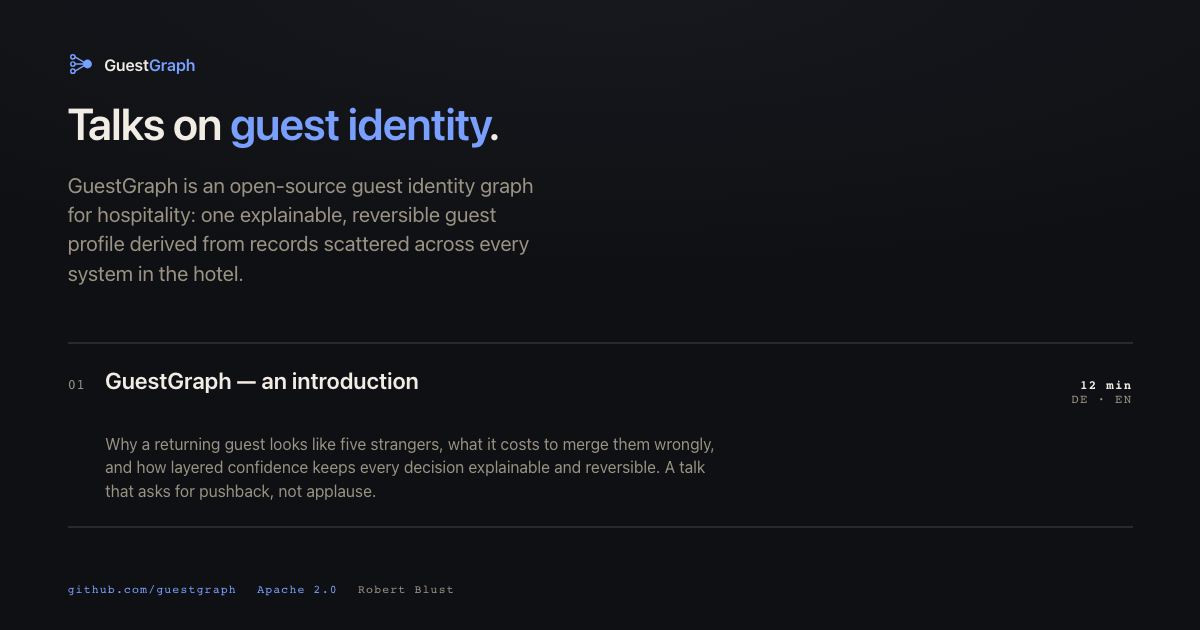
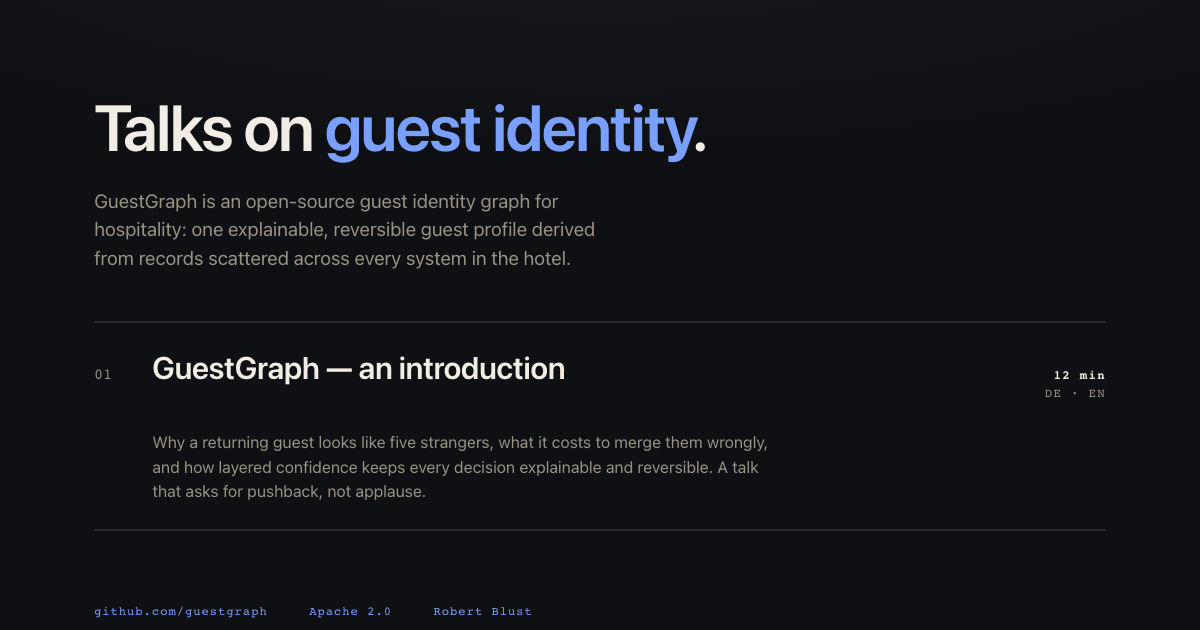
Give the talks index guestgraph.io's header and footer
The domain is served by two repositories, and until now it looked it: the
landing page was a centred column with a header bar and a footer, this index
was full-bleed with a floating language toggle and a row of links. Crossing
between them meant meeting a seam that said nothing.

The index now uses guestgraph.io's shell, header and footer verbatim, with the
nav marking itself as the current page. There is no shared stylesheet and there
cannot be one — a deck has to open from file:// — so this is a copy, and
CLAUDE.md now says that changing the chrome means changing both repositories.

The language control moves into the bar, where the brand used to collide with
it, and the `L Sprache` hint goes. That hint is a presenter's affordance; this
is a page that is clicked, and a visible DE/EN control says it better. The key
still works, it is just no longer advertised. On a phone the bar wraps to two
rows rather than breaking „DE · EN" across lines.

The deck link opens a new tab and links to this index do not, matching the rule
settled on blust.ch: it follows what the destination is, not the domain.

diff --git a/index.html b/index.html
@@ -26,6 +26,10 @@
 <meta property="og:locale:alternate" content="de_CH">
 <meta name="twitter:card" content="summary_large_image">
 <style>
+  /* Shell, header, brand, nav and footer are guestgraph.io's, deliberately: the domain is
+     served by two repositories and a visitor crossing between them should not meet a seam.
+     What only exists here is the talk list — and the language control, because this is the
+     only bilingual page on the domain. */
   :root{
     --paper:#0f1013; --ink:#f1ede4; --muted:#9a9384; --cobalt:#7aa0ff;
     --line:#282a30; --paper2:#191b20;
@@ -33,95 +37,130 @@
   *{box-sizing:border-box; margin:0; padding:0}
   body{
     font-family:"IBM Plex Sans", ui-sans-serif, system-ui, -apple-system, "Segoe UI", Roboto, sans-serif;
-    background:var(--paper); color:var(--ink); min-height:100vh;
-    background-image:radial-gradient(130% 70% at 50% 0%, #17191f 0%, var(--paper) 62%);
+    background:var(--paper); color:var(--ink); line-height:1.5; min-height:100vh;
+    background-image:radial-gradient(120% 60% at 50% -10%, #17191f 0%, var(--paper) 60%);
     -webkit-font-smoothing:antialiased;
+    display:flex; flex-direction:column;
   }
+  a{color:inherit}
   .mono{font-family:"IBM Plex Mono", ui-monospace, "SF Mono", Menlo, monospace}
-  /* same rhythm as the deck: full-bleed, vmin padding — not a centred column */
-  .wrap{padding:11vmin 10vmin 9vmin}
 
-  /* the same lockup the landing page opens with, and a way back to it */
-  .brand{display:inline-flex; align-items:center; gap:.65em; text-decoration:none;
-         margin-bottom:3.4vmin; color:var(--cobalt)}
-  .brand svg{width:clamp(26px,3.4vmin,38px); height:clamp(26px,3.4vmin,38px); flex:0 0 auto}
-  .brand b{font-weight:600; letter-spacing:-.01em; color:var(--ink);
-           font-size:clamp(1.02rem,2.1vmin,1.5rem)}
+  .shell{width:100%; max-width:1180px; margin:0 auto; padding:0 7vw}
+
+  header{padding:2rem 0}
+  .bar{display:flex; align-items:center; justify-content:space-between; gap:2rem}
+  .brand{display:flex; align-items:center; gap:.7rem; text-decoration:none}
+  .brand svg{width:28px; height:28px; color:var(--cobalt); flex:0 0 auto}
+  .brand b{font-weight:600; font-size:1.06rem; letter-spacing:-.01em}
   .brand b span{color:var(--cobalt)}
-  .brand:hover b, .brand:focus-visible b{color:var(--cobalt)}
+  nav{display:flex; align-items:center; gap:1.9rem; font-family:"IBM Plex Mono",monospace;
+      font-size:.8rem; letter-spacing:.1em; text-transform:uppercase}
+  nav a{color:var(--muted); text-decoration:none; padding-bottom:.2rem; border-bottom:1px solid transparent}
+  nav a:hover, nav a:focus-visible{color:var(--ink); border-color:var(--cobalt)}
+  /* the bar is the same component on both sites, so this page says which one you are on
+     rather than dropping the item and leaving the header subtly different */
+  nav a[aria-current="page"]{color:var(--ink); border-color:var(--cobalt)}
 
-  h1{font-weight:600; line-height:1.07; letter-spacing:-.02em; font-size:clamp(2.3rem,6.6vmin,5.6rem); max-width:21ch}
+  /* The language control lives in the bar rather than floating over the page. The deck
+     keeps its fixed DE/EN indicator because a deck is presented; this is a page that is
+     clicked, and a visible control in the header explains itself without a key hint. */
+  .langind{font:inherit; letter-spacing:inherit; text-transform:inherit; background:none;
+           border:0; border-bottom:1px solid transparent; padding:0 0 .2rem; cursor:pointer;
+           color:var(--muted); white-space:nowrap}
+  .langind:hover{color:var(--ink)}
+  .langind .on{color:var(--cobalt); font-weight:700}
+
+  /* vertically centred, as on guestgraph.io: with a short list the alternative is a
+     column of content sitting above a screen-height void */
+  main{flex:1; display:flex; align-items:center; padding:2vh 0 5vh}
+
+  h1{font-weight:600; line-height:1.07; letter-spacing:-.025em;
+     font-size:clamp(2.2rem,5.4vw,4.2rem); max-width:21ch}
   h1 em{font-style:normal; color:var(--cobalt)}
-  .lede{margin-top:3.4vmin; font-size:clamp(1.25rem,3.1vmin,2.5rem); color:var(--muted); max-width:36ch; line-height:1.4}
+  .lede{margin-top:1.6rem; font-size:clamp(1.05rem,1.6vw,1.35rem); color:var(--muted);
+        max-width:44ch}
 
-  .talks{margin-top:8vmin}
+  .talks{margin-top:clamp(3rem,6vh,5rem)}
   .talk{
-    display:grid; grid-template-columns:auto 1fr auto; gap:1.2rem 3vmin; align-items:baseline;
-    border-top:2px solid var(--line); padding:3.4vmin 0;
+    display:grid; grid-template-columns:auto 1fr auto; gap:1rem 2.5rem; align-items:baseline;
+    border-top:2px solid var(--line); padding:clamp(1.6rem,3vh,2.4rem) 0;
     text-decoration:none; color:inherit; transition:border-color .2s ease;
   }
   .talk:last-child{border-bottom:2px solid var(--line)}
-  .talk:hover{border-color:var(--cobalt)}
-  .talk:hover .t{color:var(--cobalt)}
-  .num{font-family:"IBM Plex Mono",monospace; color:var(--muted); font-size:clamp(.9rem,1.7vmin,1.25rem)}
-  .t{font-size:clamp(1.4rem,3.4vmin,2.4rem); font-weight:600; line-height:1.2; transition:color .2s ease}
-  .d{grid-column:2; margin-top:1.2vmin; color:var(--muted); font-size:clamp(1rem,2.1vmin,1.45rem); line-height:1.45; max-width:62ch}
+  .talk:hover, .talk:focus-visible{border-color:var(--cobalt)}
+  .talk:hover .t, .talk:focus-visible .t{color:var(--cobalt)}
+  .num{font-family:"IBM Plex Mono",monospace; color:var(--muted); font-size:.95rem}
+  .t{font-size:clamp(1.3rem,2.6vw,2rem); font-weight:600; line-height:1.2;
+     letter-spacing:-.015em; transition:color .2s ease}
+  .d{grid-column:2; margin-top:.7rem; color:var(--muted);
+     font-size:clamp(1rem,1.35vw,1.15rem); line-height:1.5; max-width:62ch}
   .meta{
-    font-family:"IBM Plex Mono",monospace; font-size:clamp(.78rem,1.5vmin,1.05rem);
+    font-family:"IBM Plex Mono",monospace; font-size:.78rem;
     color:var(--muted); letter-spacing:.1em; white-space:nowrap; text-align:right;
   }
   .meta b{color:var(--ink); font-weight:600}
 
-  .foot{margin-top:8vmin; display:flex; flex-wrap:wrap; gap:.9rem 3vmin;
-        font-family:"IBM Plex Mono",monospace; font-size:clamp(.72rem,1.4vmin,.95rem);
-        letter-spacing:.1em; color:var(--muted)}
-  .foot a{color:var(--cobalt); text-decoration:none}
-  .foot a:hover{text-decoration:underline}
+  footer{padding:0 0 2rem; display:flex; flex-wrap:wrap; gap:.9rem 2.6rem; align-items:center;
+         font-family:"IBM Plex Mono",monospace; font-size:.76rem; letter-spacing:.08em; color:var(--muted)}
+  footer a{color:var(--cobalt); text-decoration:none}
+  footer a:hover, footer a:focus-visible{text-decoration:underline}
 
-  /* chrome positioned exactly as in the deck */
-  .langind{position:fixed; top:3vmin; left:4vmin; font-family:"IBM Plex Mono",monospace;
-           font-size:.7rem; letter-spacing:.15em; color:var(--muted); z-index:5; cursor:pointer;
-           user-select:none}
-  .langind .on{color:var(--cobalt); font-weight:700}
-  .hint{position:fixed; top:3vmin; right:4vmin; font-family:"IBM Plex Mono",monospace;
-        font-size:.68rem; color:var(--muted); letter-spacing:.1em; z-index:5; opacity:.7}
+  :focus-visible{outline:2px solid var(--cobalt); outline-offset:3px; border-radius:3px}
 
-  @media (max-width:860px), (max-aspect-ratio:4/5){
-    .wrap{padding:16vmin 7vw 10vh}
-    h1{font-size:clamp(1.7rem,7.5vw,3rem); max-width:100%}
-    .lede{font-size:clamp(1rem,4.4vw,1.5rem); max-width:100%}
+  @media (max-width:900px){
+    .lede{max-width:100%}
+    nav{gap:1.4rem}
+    /* three nav items and a wordmark do not fit a phone on one line. Letting the bar wrap
+       keeps all four legible; squeezing them instead broke „DE · EN" across two lines. */
+    .bar{flex-wrap:wrap; gap:1.1rem 1.4rem}
+    main{padding:1vh 0 4vh}
     .talk{grid-template-columns:auto 1fr; gap:.6rem 1.2rem}
     .meta{grid-column:2; text-align:left; margin-top:.6rem}
     .d{grid-column:2; max-width:100%}
-    .hint{display:none}
+  }
+  @media (prefers-reduced-motion:reduce){
+    .talk, .t, nav a{transition:none}
   }
 </style>
 </head>
 <body>
 
-<div class="langind mono" id="langind"><span id="lde">DE</span> · <span id="len">EN</span></div>
-<div class="hint mono" id="hint">L  Sprache</div>
+<div class="shell">
+  <header>
+    <div class="bar">
+      <a class="brand" href="https://guestgraph.io"><svg viewBox="0 0 32 32" aria-hidden="true"><g fill="none" stroke="currentColor" stroke-width="1.8" stroke-linecap="round"><path d="M8.6 7.2 L20.5 14.2"/><path d="M8.6 16 L19.4 16"/><path d="M8.6 24.8 L20.5 17.8"/><circle cx="6" cy="7.2" r="2.6" fill="#0f1013"/><circle cx="6" cy="16" r="2.6" fill="#0f1013"/><circle cx="6" cy="24.8" r="2.6" fill="#0f1013"/></g><circle cx="24" cy="16" r="5.4" fill="currentColor"/></svg><b>Guest<span>Graph</span></b></a>
+      <nav>
+        <a href="./" aria-current="page">Talks</a>
+        <a target="_blank" rel="noopener" href="https://github.com/guestgraph/engine">Code</a>
+        <button class="langind" id="langind" type="button" aria-label="Sprache wechseln — switch language"><span id="lde">DE</span> · <span id="len">EN</span></button>
+      </nav>
+    </div>
+  </header>
+</div>
 
-<main class="wrap">
-  <a class="brand" href="https://guestgraph.io"><svg viewBox="0 0 32 32" aria-hidden="true"><g fill="none" stroke="currentColor" stroke-width="1.8" stroke-linecap="round"><path d="M8.6 7.2 L20.5 14.2"/><path d="M8.6 16 L19.4 16"/><path d="M8.6 24.8 L20.5 17.8"/><circle cx="6" cy="7.2" r="2.6" fill="#0f1013"/><circle cx="6" cy="16" r="2.6" fill="#0f1013"/><circle cx="6" cy="24.8" r="2.6" fill="#0f1013"/></g><circle cx="24" cy="16" r="5.4" fill="currentColor"/></svg><b>Guest<span>Graph</span></b></a>
-  <h1 data-en="Talks on <em>guest identity</em>.">Vorträge über <em>Gast-Identität</em>.</h1>
-  <p class="lede" data-en="GuestGraph is an open-source guest identity graph for hospitality: one explainable, reversible guest profile derived from records scattered across every system in the hotel.">GuestGraph ist ein Open-Source-Identitätsgraph für Gäste in der Hotellerie: ein erklärbares, umkehrbares Gastprofil, abgeleitet aus Datensätzen, die über jedes System im Hotel verstreut liegen.</p>
+<main>
+  <div class="shell">
+    <h1 data-en="Talks on <em>guest identity</em>.">Vorträge über <em>Gast-Identität</em>.</h1>
+    <p class="lede" data-en="GuestGraph is an open-source guest identity graph for hospitality: one explainable, reversible guest profile derived from records scattered across every system in the hotel.">GuestGraph ist ein Open-Source-Identitätsgraph für Gäste in der Hotellerie: ein erklärbares, umkehrbares Gastprofil, abgeleitet aus Datensätzen, die über jedes System im Hotel verstreut liegen.</p>
 
-  <div class="talks">
-    <a class="talk" href="intro/">
-      <span class="num mono">01</span>
-      <span class="t" data-en="GuestGraph — an introduction">GuestGraph — eine Einführung</span>
-      <span class="meta mono"><b>12 min</b><br>DE · EN</span>
-      <span class="d" data-en="Why a returning guest looks like five strangers, what it costs to merge them wrongly, and how layered confidence keeps every decision explainable and reversible. A talk that asks for pushback, not applause.">Warum ein Stammgast wie fünf Fremde aussieht, was es kostet, sie falsch zusammenzuführen, und wie gestufte Sicherheit jede Entscheidung erklärbar und umkehrbar hält. Ein Vortrag, der um Gegenwind bittet, nicht um Applaus.</span>
-    </a>
+    <div class="talks">
+      <a class="talk" target="_blank" rel="noopener" href="intro/">
+        <span class="num mono">01</span>
+        <span class="t" data-en="GuestGraph — an introduction">GuestGraph — eine Einführung</span>
+        <span class="meta mono"><b>12 min</b><br>DE · EN</span>
+        <span class="d" data-en="Why a returning guest looks like five strangers, what it costs to merge them wrongly, and how layered confidence keeps every decision explainable and reversible. A talk that asks for pushback, not applause.">Warum ein Stammgast wie fünf Fremde aussieht, was es kostet, sie falsch zusammenzuführen, und wie gestufte Sicherheit jede Entscheidung erklärbar und umkehrbar hält. Ein Vortrag, der um Gegenwind bittet, nicht um Applaus.</span>
+      </a>
+    </div>
   </div>
+</main>
 
-  <div class="foot">
+<div class="shell">
+  <footer>
     <span><a target="_blank" rel="noopener" href="https://github.com/guestgraph">github.com/guestgraph</a></span>
     <span><a target="_blank" rel="noopener" href="https://github.com/guestgraph/engine/blob/HEAD/LICENSE">Apache 2.0</a></span>
     <span><a target="_blank" rel="noopener" href="https://blust.ch/">Robert Blust</a></span>
-  </div>
-</main>
+  </footer>
+</div>
 
 <script>
   // Same mechanism as the decks: German is the markup, English lives in data-en.
@@ -130,15 +169,14 @@
   i18n.forEach(function(el){ el.setAttribute('data-de', el.innerHTML); });
 
   var UI = {
-    de:{ hint:'L  Sprache', title:'GuestGraph — Vorträge über Gast-Identität in der Hotellerie',
+    de:{ title:'GuestGraph — Vorträge über Gast-Identität in der Hotellerie',
          desc:'Vorträge über GuestGraph, den Open-Source-Identitätsgraphen für Gäste in der Hotellerie — auf Deutsch und Englisch.' },
-    en:{ hint:'L  language', title:'GuestGraph — talks on guest identity in hospitality',
+    en:{ title:'GuestGraph — talks on guest identity in hospitality',
          desc:'Talks on GuestGraph, the open-source guest identity graph for hospitality — in German and English.' }
   };
 
   function applyLang(){
     i18n.forEach(function(el){ el.innerHTML = el.getAttribute('data-' + lang); });
-    document.getElementById('hint').textContent = UI[lang].hint;
     document.title = UI[lang].title;
     document.getElementById('metadesc').setAttribute('content', UI[lang].desc);
     document.getElementById('lde').classList.toggle('on', lang === 'de');
@@ -147,10 +185,11 @@
   }
   function toggle(){ lang = (lang === 'de') ? 'en' : 'de'; applyLang(); }
 
+  // The key still works — a presenter remote and muscle memory both reach for it — but it
+  // is no longer advertised on screen, because the control in the header says it better.
   document.addEventListener('keydown', function(e){
     if(e.key === 'l' || e.key === 'L'){ toggle(); }
   });
-  // A web page is clicked, not presented — the indicator has to work as a control.
   document.getElementById('langind').addEventListener('click', toggle);
   document.getElementById('lde').addEventListener('click', function(e){ e.stopPropagation(); if(lang!=='de') toggle(); });
   document.getElementById('len').addEventListener('click', function(e){ e.stopPropagation(); if(lang!=='en') toggle(); });

diff --git a/CLAUDE.md b/CLAUDE.md
@@ -34,6 +34,24 @@ from `file://` and a plain local server, not only the live domain.
   Keep them distinct: the directions outnumber the emphases roughly ten to one, so
   overloading one tag makes both meaningless.
 
+## The talks index is a page; the decks are decks
+
+`index.html` at the repository root is not a deck and does not behave like one. It shares
+guestgraph.io's shell, header bar and footer verbatim — the domain is served by two
+repositories, and a visitor crossing between them should not meet a seam. Changing that
+chrome means changing it in both repositories; there is no shared stylesheet and cannot
+be one, because a deck has to open from `file://`.
+
+- **A deck opens in a new tab, the index does not.** Someone who opens a twelve-minute
+  talk has not finished with the page that sent them. Nobody is mid-way through a list of
+  one link, so `guestgraph.io/talks/` — from the site's nav and from anywhere else — stays
+  in the tab. The rule follows what the destination is, not which domain it is on.
+- **The language control sits in the header bar here, not floating over the page.** The
+  deck keeps its fixed `DE · EN` indicator and its `L Sprache` hint because a deck is
+  presented and the hint tells a presenter which key to press. This page is clicked, so
+  the control lives in the bar with the nav and the hint is gone. The `L` key still works;
+  it is simply no longer advertised.
+
 ## Notes live inside HTML attributes — three ways that bites
 
 Speaker notes are attribute *values*, so anything that ends an attribute ends the note,
